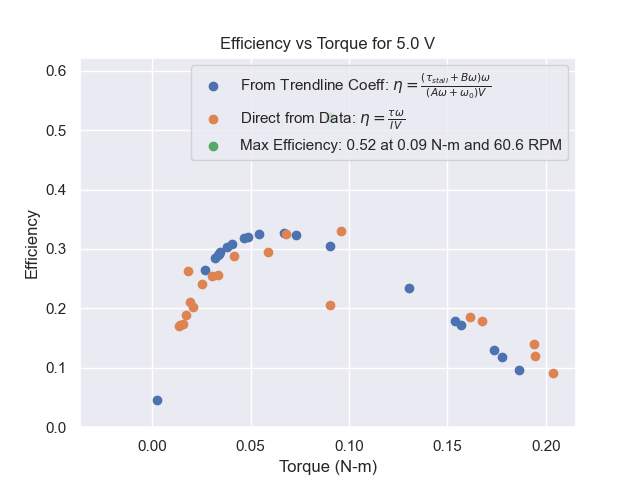
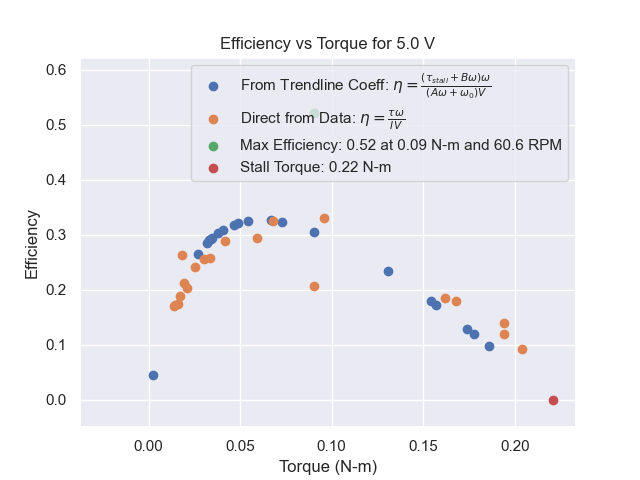
added stall torque to Torq vs eff plot

diff --git a/DA_Plotting.py b/DA_Plotting.py
@@ -212,8 +212,11 @@ for voltage in DA.df['Applied Voltage (v)'].unique():
     max_eff_rpm = df_v['Tach Reading (RPM)'][max_eff_index]
     ax.scatter(max_eff_torque, df_v['Efficiency'].max(), label=f'Max Efficiency: {df_v["Efficiency"].max():.2f} at '
                                                              f'{max_eff_torque:.2f} N-m and {max_eff_rpm} RPM')
+    #add stall torque to legend for each voltage
+    ax.scatter(stall_torque, 0, label=f'Stall Torque: {stall_torque:.2f} N-m')
+    
     plt.legend()
-    ax.set_ylim(0, df_v['Efficiency'].max() + 0.1)
+    ax.set_ylim(-0.05, df_v['Efficiency'].max() + 0.1)
     ax.set_xlabel('Torque (N-m)')
     ax.set_ylabel('Efficiency')
     plt.title(f'Efficiency vs Torque for {voltage} V')
